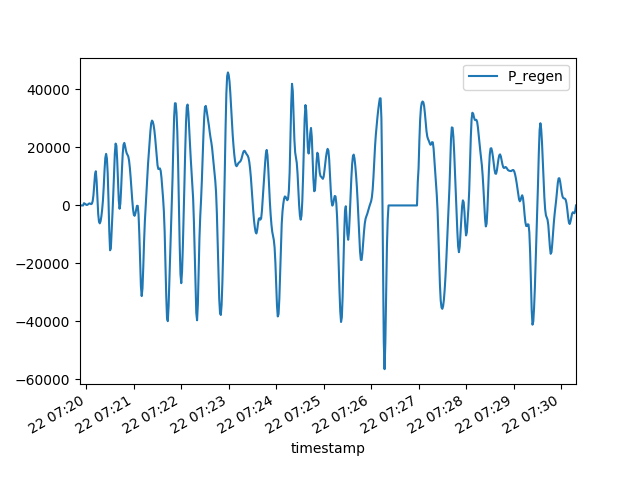
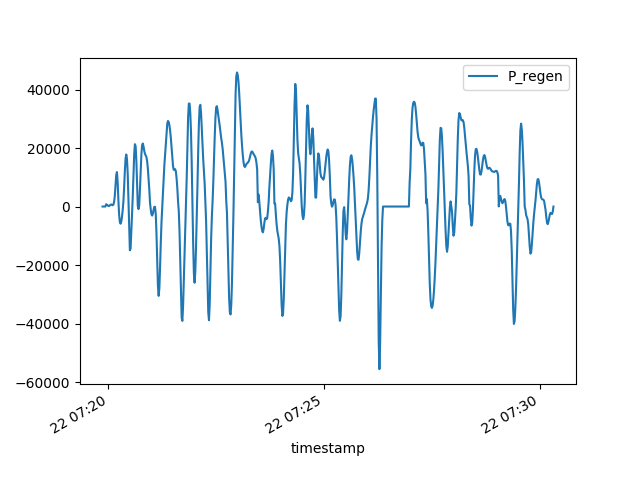
Fixed `regen_braking` method

diff --git a/EV_data_analysis.py b/EV_data_analysis.py
@@ -28,7 +28,8 @@ def calculate_energy_consumption(data):
     Calculates the energy consumption trend and plots it against time
 
     :param data: data in DataFrame
-    :return: data in DataFrame with four new columns: speed in m/s, acceleration in m/s^2, power at wheels in W and power at electric motor in W
+    :return: data in DataFrame with four new columns: speed in m/s, acceleration in m/s^2,
+             power at wheels in W and power at electric motor in W
     """
 
     m = 1521 # mass (kg)
@@ -68,27 +69,34 @@ def calculate_energy_consumption(data):
 
 def regen_braking(data):
     """
-    Calculates the energy consumption (with regenerative braking efficiency included) trend and plots it against time
+    Calculates the energy consumption (with regenerative braking efficiency included)
+    trend and plots it against time
 
     :param data: data in DataFrame
-    :return: data in DataFrame with two new columns: regenerative braking efficiency and power at electric motor adjusted with n_rb
+    :return: data in DataFrame with two new columns: regenerative braking efficiency
+                                                     and power at electric motor adjusted with n_rb
     """
 
     alpha = 0.0411
-    
-    data['n_rb'] = (np.exp(alpha / abs(data['accel_mps2']) ) )**-1
-    data['n_rb'].where(data['accel_mps2'] < 0, other = 0, inplace = True) #regenerative braking efficiency is ZERO when acceleration >= 0
 
+    # regenerative braking efficiency is ZERO when acceleration >= 0
+    data['n_rb'] = (np.exp(alpha / abs(data['accel_mps2']) ) )**-1
+    data['n_rb'].where(data['accel_mps2'] < 0, other = 0, inplace = True)
+
+    # calculate the energy being stored back to the battery whenever the car decelerates
     data['P_regen'] = data['P_electric_motor']
-    for x in data['P_regen']:
-        if x < 0:
-            x *= data['n_rb']
+    data['P_regen'] *= data['n_rb'] # calculate the energy being stored back to the battery whenever the car decelerates
+
+    # add the energy consumption when the car accelerates
+    pos_energy_consumption = data['P_electric_motor']
+    pos_energy_consumption.where(data['accel_mps2']>=0, other=0, inplace = True)
+    data['P_regen'] += pos_energy_consumption
 
     data.plot(x='timestamp', y='P_regen')
     plt.savefig('energy_consumption_with_regen.png')
 
-    # data.plot(x='timestamp', y='n_rb')
-    # plt.savefig('n_rb.png')
+    data.plot(x='timestamp', y='n_rb')
+    plt.savefig('n_rb.png')
 
     return data
 
